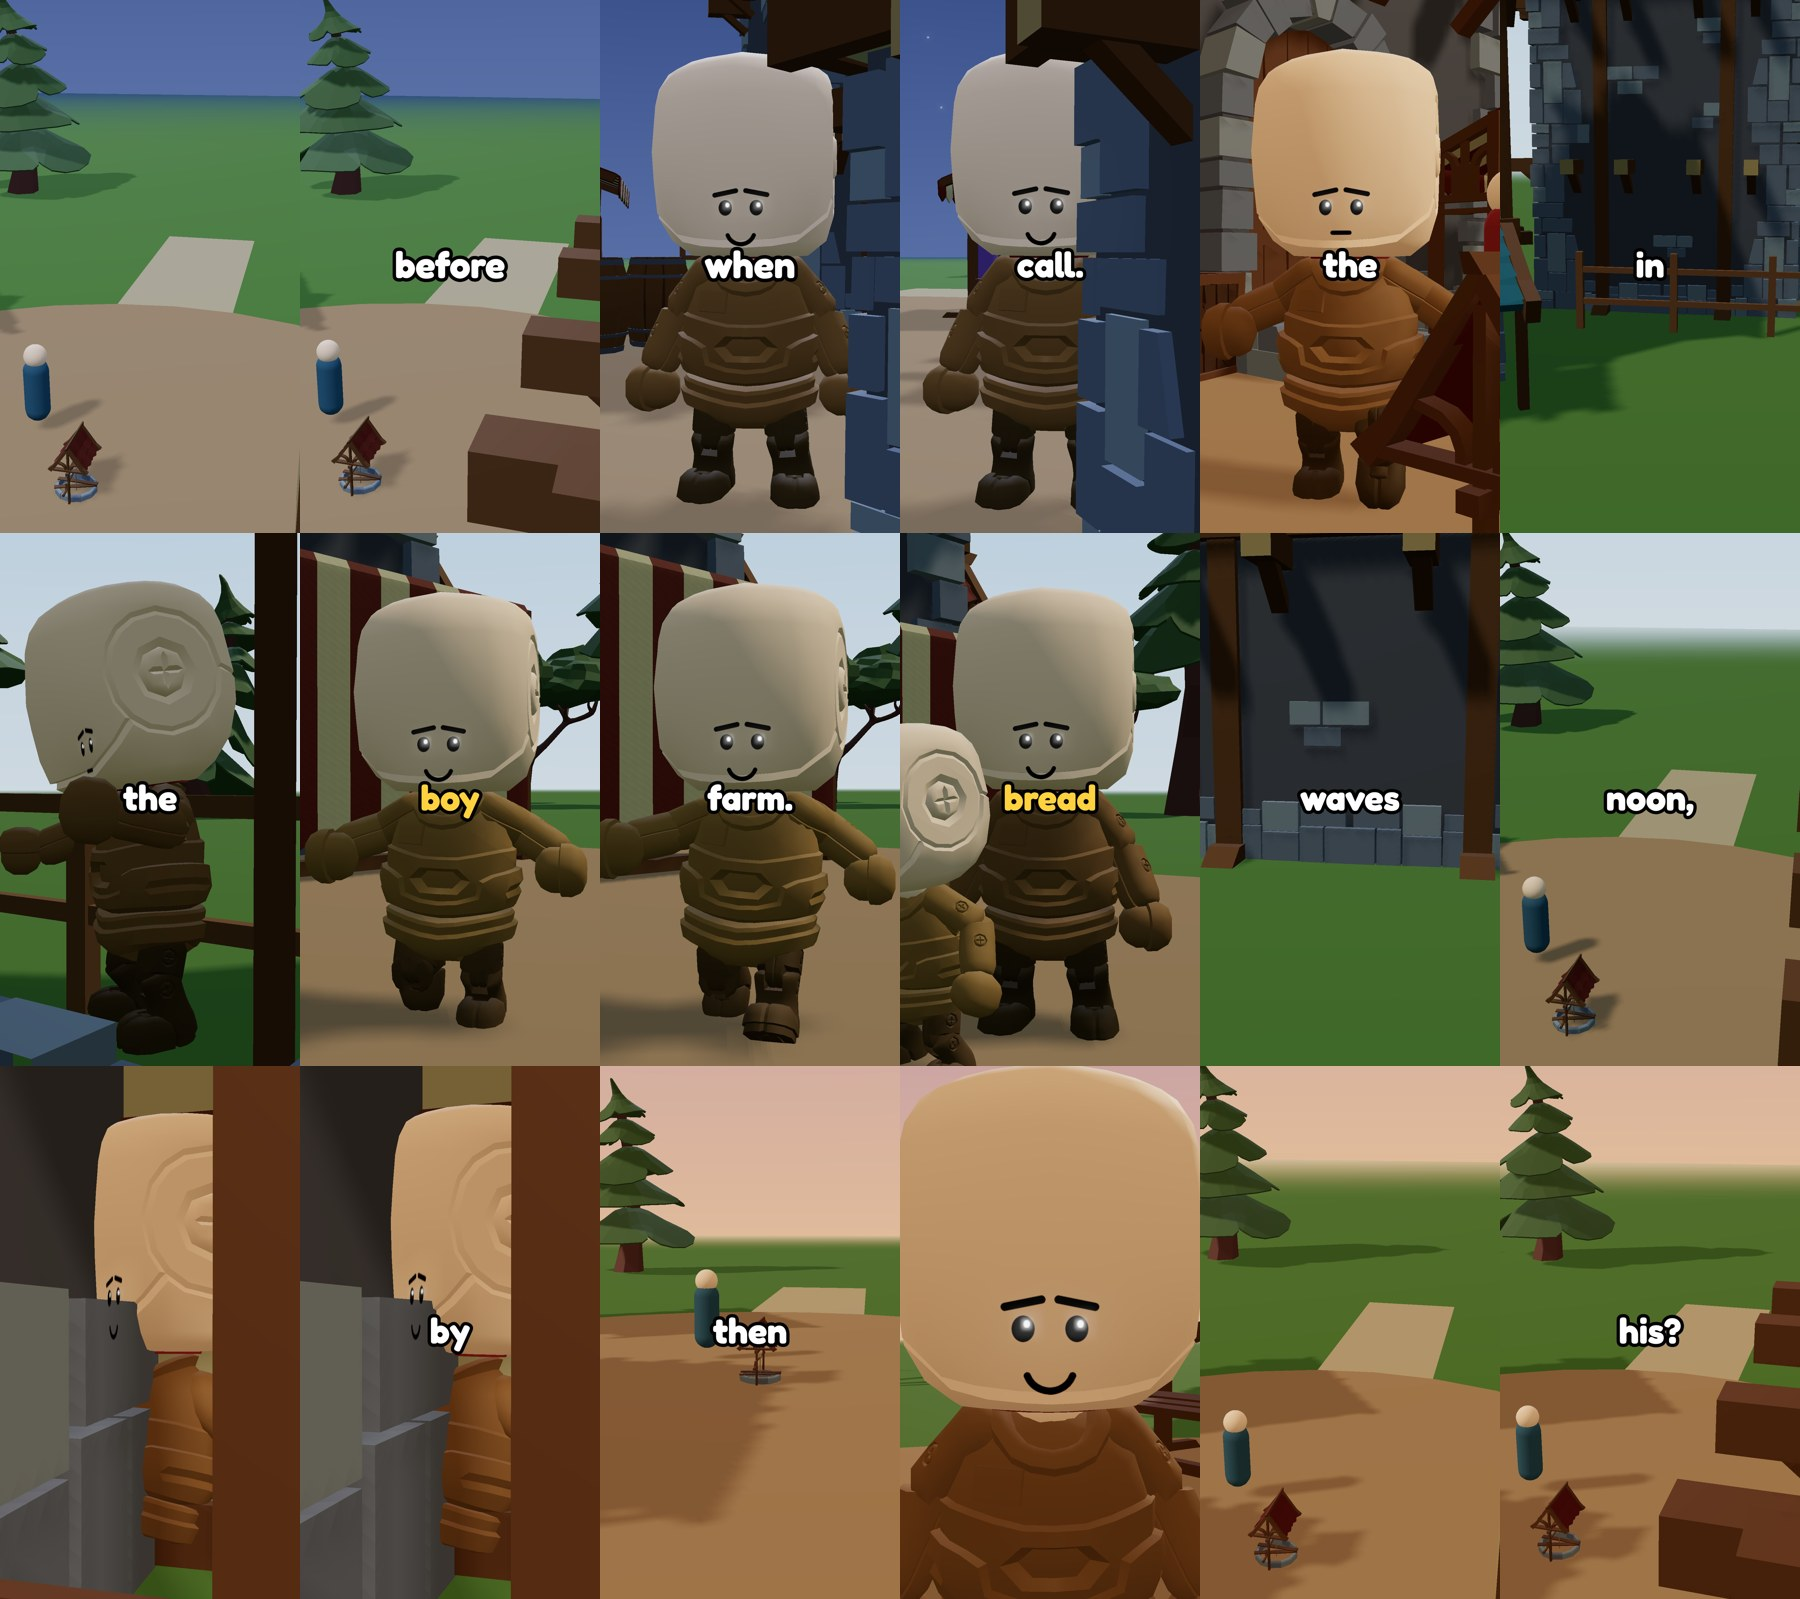
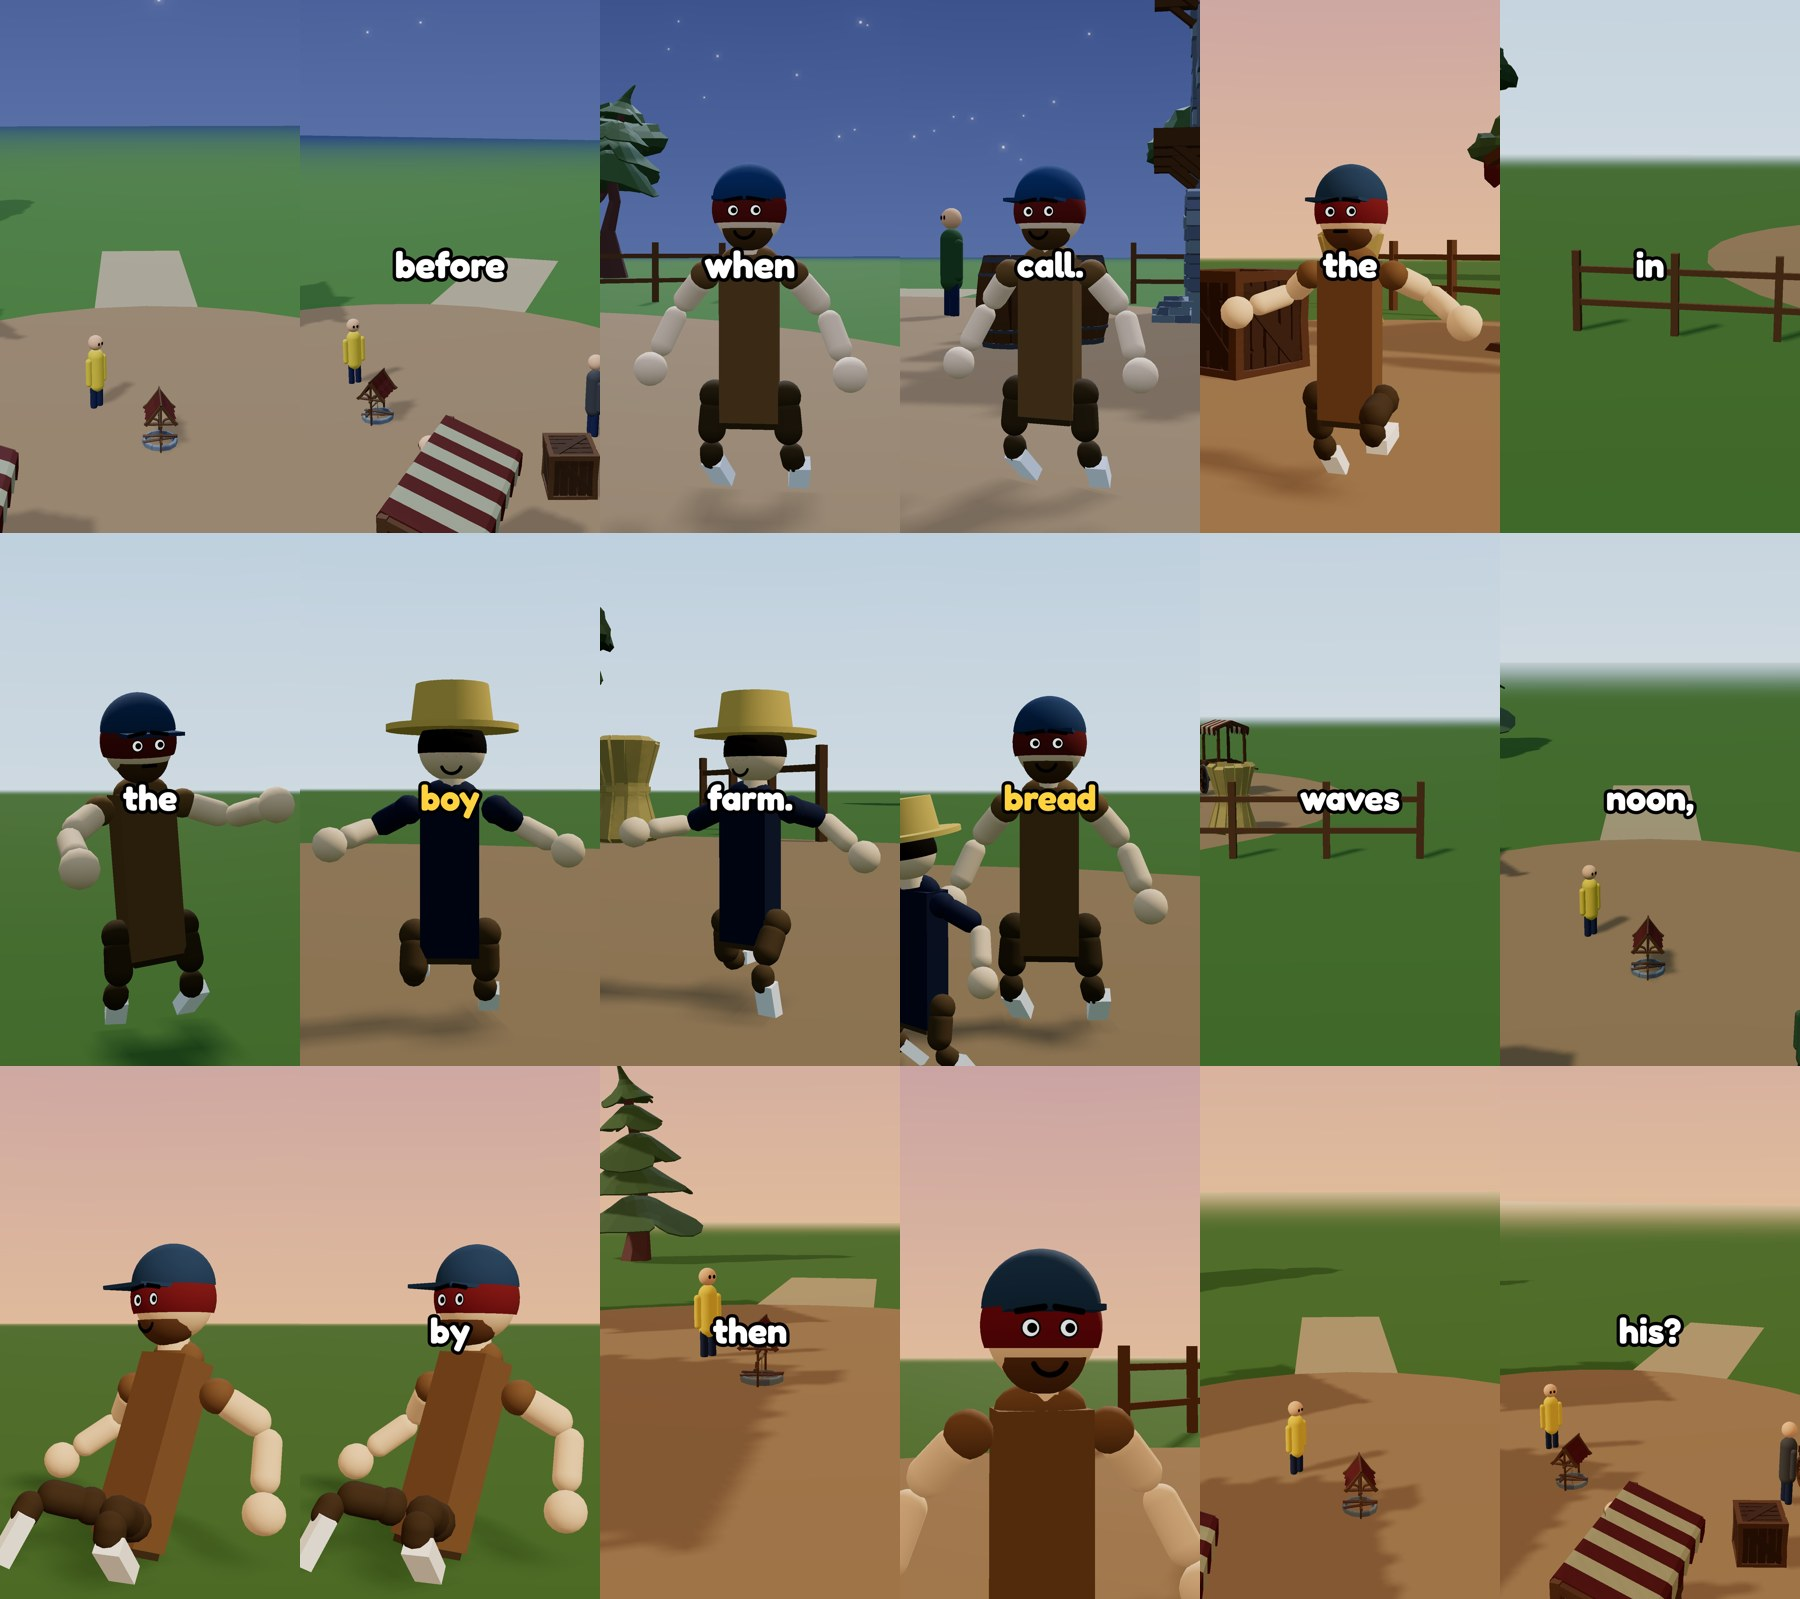
motor-3d r3: fiscal com 3 testes novos (quadro repetido<2%, obstaculo>25%, criatura>8%); engine esconde qualquer tronco/casa >19%% ou perto demais e ignora chao/rua na lista; travelling bem visivel em aberto/aereo; os 3 testes passam

diff --git a/motor-3d/engine.html b/motor-3d/engine.html
@@ -138,12 +138,19 @@ async function trocarPara(i) {
     cenarioAtual = await montarCenario(cena.cenario, scene, {});
     cenarioNome = cena.cenario;
     // obstaculos p/ o raycast da camera: filhos de topo do grupo do cenario (arvores, casas, torre...),
-    // menos o piso (plano grande no chao, que nunca bloqueia a cabeca).
+    // obstaculos = so o que pode TAPAR a cabeca (arvores, casas, torre). Exclui o chao e pecas baixas e planas
+    // (calcada, asfalto, caminho, praca, trilho): elas ficam no piso e nunca bloqueiam nem contam como "tronco".
     obstaculos = [];
     if (cenarioAtual.grupo) {
+      const cx = new THREE.Box3();
       for (const ch of cenarioAtual.grupo.children) {
         if (ch === cenarioAtual.piso) continue;
         if (ch.geometry && ch.geometry.type === 'PlaneGeometry') continue;
+        cx.setFromObject(ch);
+        if (cx.isEmpty()) continue;
+        const altY = cx.max.y - cx.min.y, base = cx.min.y;
+        // peça baixa (altura < 0.6 m) e colada no chao (base < 0.4 m): é piso/rua, nao obstaculo
+        if (altY < 0.6 && base < 0.4) continue;
         obstaculos.push(ch);
       }
     }
@@ -243,6 +250,39 @@ function virarParaCamera(alvo, maxGraus) {
   a.obj.rotation.y = baseY + d;
 }
 
+// fracao da tela (0..1) coberta pela caixa de um objeto, projetando os 8 cantos na camera.
+const _cantoV = new THREE.Vector3(); const _boxTmp = new THREE.Box3();
+function coberturaTela(obj) {
+  _boxTmp.setFromObject(obj);
+  if (_boxTmp.isEmpty()) return 0;
+  const mn = _boxTmp.min, mx = _boxTmp.max;
+  let minx = 2, miny = 2, maxx = -2, maxy = -2, algumFrente = false;
+  for (let i = 0; i < 8; i++) {
+    _cantoV.set(i & 1 ? mx.x : mn.x, i & 2 ? mx.y : mn.y, i & 4 ? mx.z : mn.z);
+    _cantoV.project(cam);
+    if (_cantoV.z < 1) algumFrente = true;
+    minx = Math.min(minx, _cantoV.x); maxx = Math.max(maxx, _cantoV.x);
+    miny = Math.min(miny, _cantoV.y); maxy = Math.max(maxy, _cantoV.y);
+  }
+  if (!algumFrente) return 0;
+  const w = Math.min(1, maxx) - Math.max(-1, minx); // NDC -1..1
+  const h = Math.min(1, maxy) - Math.max(-1, miny);
+  if (w <= 0 || h <= 0) return 0;
+  return (w / 2) * (h / 2); // fracao da tela
+}
+// obstaculo cuja caixa esta a menos de `dist` da camera na horizontal (perto demais => domina o quadro)
+function pertoDaCamera(obj, dist) {
+  _boxTmp.setFromObject(obj);
+  if (_boxTmp.isEmpty()) return false;
+  const cx = (_boxTmp.min.x + _boxTmp.max.x) / 2, cz = (_boxTmp.min.z + _boxTmp.max.z) / 2;
+  const dx = cx - cam.position.x, dz = cz - cam.position.z;
+  const d = Math.hypot(dx, dz) - Math.max(_boxTmp.max.x - cx, _boxTmp.max.z - cz) * 0.5;
+  // so conta se estiver na FRENTE da camera (produto escalar com a direcao da camera)
+  const fwd = new THREE.Vector3(); cam.getWorldDirection(fwd);
+  const naFrente = (dx * fwd.x + dz * fwd.z) > 0;
+  return naFrente && d < dist;
+}
+
 // posiciona a rim light atras do alvo em relacao a camera (contraluz): recorta a silhueta do fundo.
 function posicionarRim(alvo) {
   alvo.obj.getWorldPosition(_tmpVec);
@@ -302,7 +342,14 @@ window.render = function (t) {
 
   // TODOS os troncos/casas entre a camera e o alvo SOMEM neste quadro (regra r3: nao basta orbitar)
   const escondidos = (diag && diag.bloqueadores) || [];
+  // alem disso, esconde QUALQUER obstaculo que ocupe > 22% da tela OU esteja muito perto da camera (tronco/copa
+  // gigante de lado), proibido na r3. A proximidade pega os casos em que a caixa cruza o plano da camera.
+  for (const o of obstaculos) {
+    if (!o.visible || escondidos.includes(o)) continue;
+    if (coberturaTela(o) > 0.19 || pertoDaCamera(o, 4.5)) escondidos.push(o);
+  }
   for (const o of escondidos) o.visible = false;
+  window.__escondidosQuadro = escondidos; // o fiscal (obstaculo) respeita estes esconderijos
 
   // dados para o fiscal (conferir_quadros.py): plano, se o alvo e ator, e se segue bloqueado DEPOIS de esconder
   window.__ultimoQuadro = { plano: pa.plano, alvoEhAtor: !!(alvo && alvo.ehAtor), bloqueado: false, cena: ST._iAtual,
@@ -420,6 +467,29 @@ function desenharSilhueta(alvo) {
   for (const [o, m] of trocados) o.material = m;
 }
 window.__silhueta = (on) => { _silhueta = !!on; };
+
+// fiscal (b): maior fracao da tela ocupada por UM objeto de cenario (tronco/casa) que NAO e ator/criatura.
+// Pinta cada obstaculo de uma cor unica, renderiza sem bloom, e mede a maior contagem de uma cor.
+window.__obstaculoCobertura = () => {
+  const trocados = [];
+  scene.traverse(o => { if (o.isMesh && o.material) { trocados.push([o, o.material]); o.material = _matPreto; } });
+  // cada obstaculo de topo ganha uma cor unica; os que o quadro ESCONDEU continuam pretos (nao contam)
+  const escond = window.__escondidosQuadro || [];
+  const cores = [];
+  obstaculos.forEach((ob, i) => {
+    if (escond.includes(ob)) { cores.push(null); return; }
+    const cor = new THREE.Color().setHSL((i * 0.137) % 1, 1, 0.5);
+    cores.push(cor);
+    ob.traverse(o => { if (o.isMesh) o.material = new THREE.MeshBasicMaterial({ color: cor }); });
+  });
+  // esconde ator/criatura para nao contar
+  const alvo = _alvoAtual;
+  const bg = scene.background; scene.background = new THREE.Color(0x000000);
+  R.render(scene, cam);
+  scene.background = bg;
+  for (const [o, m] of trocados) o.material = m;
+  return cores.length; // o calculo da fracao e feito no Python lendo os pixels (cores distintas)
+};
 
 // diagnostico: posicao/alvo da camera e se a cena tem objetos visiveis
 window.__caminfo = () => ({

diff --git a/motor-3d/kit/camera.js b/motor-3d/kit/camera.js
@@ -90,10 +90,10 @@ function montar(plano, alvo, a, fov, orbitDeg = 0) {
       olha.set(base.x, base.y + alturaCorpo * 0.62, base.z);
       break;
     }
-    case 'aberto': { // ator ~25% + cenario; de frente, mais alto e afastado, orbit lateral visivel
-      const d = distParaEnquadrar(alturaCorpo, 0.25, fov) * (1 - dolly * 0.3);
-      pos.copy(centroCorpo).addScaledVector(fr, d).addScaledVector(lado, 1.6 + 1.2 * desliza);
-      pos.y = base.y + alturaCorpo * 0.9 + 0.8;
+    case 'aberto': { // ator ~25% + cenario; dolly e orbit lateral BEM visiveis ao longo do trecho
+      const d = distParaEnquadrar(alturaCorpo, 0.25, fov) * (1 - dolly * 0.6);
+      pos.copy(centroCorpo).addScaledVector(fr, d).addScaledVector(lado, 1.2 + 2.4 * desliza);
+      pos.y = base.y + alturaCorpo * 0.9 + 0.8 + 0.5 * desliza;
       olha.copy(centroCorpo); olha.y = base.y + alturaCorpo * 0.5;
       break;
     }
@@ -120,10 +120,11 @@ function montar(plano, alvo, a, fov, orbitDeg = 0) {
       olha.copy(cab).addScaledVector(fr, 4.0);
       break;
     }
-    case 'aereo': { // de cima mas inclinado p/ o HORIZONTE (ceu claro no fundo), vila/rua preenchendo o quadro
+    case 'aereo': { // de cima mas inclinado p/ o HORIZONTE; orbita visivelmente ao longo do trecho (nunca parada)
       const h = 5.0 + alturaCorpo * 0.7;
-      pos.set(base.x + 3 + a * 1.0, base.y + h, base.z + h * 1.2);
-      olha.set(base.x, base.y + 2.0, base.z - 6); // mira adiante e um pouco pra cima: pega o horizonte iluminado
+      const ang = desliza * 0.5; // gira a posicao em torno do alvo ao longo do trecho
+      pos.set(base.x + Math.sin(ang) * (5 + h * 0.4) + 3, base.y + h, base.z + Math.cos(ang) * (5 + h * 0.4) + h * 0.6);
+      olha.set(base.x, base.y + 2.0, base.z - 6);
       break;
     }
     default: {

diff --git a/motor-3d/testes/conferir_quadros.py b/motor-3d/testes/conferir_quadros.py
@@ -2,7 +2,10 @@
 """Fiscal automatico dos quadros 3D: renderiza 1 quadro a cada 2,5 s de um roteiro e REPROVA se:
   (a) brilho medio do quadro < 45 (numa escala 0-255) -> cena escura demais;
   (b) o ator-alvo ocupa menos de 3% da tela nos planos close/medio/baixo (mede numa passada de silhueta magenta);
-  (c) algum objeto bloqueia o raycast camera->cabeca do alvo.
+  (c) algum objeto bloqueia o raycast camera->cabeca do alvo;
+  (d) dois quadros seguidos com diferenca media < 2% (camera parada entre cortes);
+  (e) um objeto de cenario (tronco/casa) ocupando > 25% da tela;
+  (f) em plano de criatura (baixo/aberto), a silhueta da criatura ocupa < 8% da tela.
 Escreve um relatorio (stdout + <base>_relatorio.txt) e uma folha de contato <base>_folha.jpg (6x3 quadros).
 
 Uso: python conferir_quadros.py SV-3d-exemplo.json SV-3d-tempos.json [saida/SV-3d]
@@ -22,6 +25,10 @@ PASSO = 2.5          # 1 quadro a cada 2,5 s
 BRILHO_MIN = 45      # media de brilho minima
 AREA_MIN = 0.03      # 3% da tela nos planos close/medio/baixo
 PLANOS_ATOR = {"close", "medio", "baixo"}
+DIF_MIN = 0.02       # (a) 2 quadros seguidos com diferenca media < 2% reprovam (camera parada entre cortes)
+OBST_MAX = 0.25      # (b) 1 objeto de cenario (tronco/casa) ocupando > 25% da tela reprova
+CRIAT_MIN = 0.08     # (c) em plano de criatura, a silhueta da criatura tem que ocupar > 8%
+PLANOS_CRIATURA = {"baixo", "aberto"}
 
 
 class _H(http.server.SimpleHTTPRequestHandler):
@@ -53,6 +60,7 @@ def conferir(historia, tempos, base_saida):
 
     GRAB = "t => { render(t); return document.getElementById('c').toDataURL('image/jpeg',0.9).split(',')[1]; }"
     quadros, linhas, falhas = [], [], []
+    arr_ant = None
     with sync_playwright() as pw:
         b = pw.chromium.launch()
         pg = b.new_page(viewport={"width": 1080, "height": 1920})
@@ -75,10 +83,23 @@ def conferir(historia, tempos, base_saida):
             sil = np.asarray(Image.open(io.BytesIO(base64.b64decode(sil_b64))).convert("RGB"), dtype=np.int16)
             magenta = (sil[:, :, 0] > 150) & (sil[:, :, 1] < 90) & (sil[:, :, 2] > 150)
             area = float(magenta.mean())
+            # 3) passada de obstaculos: cada tronco/casa com cor unica; mede a maior fracao de uma so cor
+            pg.evaluate("() => window.__obstaculoCobertura()")
+            obs_b64 = pg.evaluate("() => window.__cru(0.92)")
+            obs = np.asarray(Image.open(io.BytesIO(base64.b64decode(obs_b64))).convert("RGB"), dtype=np.uint8)
+            nao_preto = obs.max(axis=2) > 40
+            maior_obst = 0.0
+            if nao_preto.any():
+                # quantiza as cores e conta a mais frequente (= maior objeto na tela)
+                q = (obs[nao_preto] // 32).astype(np.int32)
+                chaves = q[:, 0] * 64 + q[:, 1] * 8 + q[:, 2]
+                _, cont = np.unique(chaves, return_counts=True)
+                maior_obst = float(cont.max()) / (obs.shape[0] * obs.shape[1])
 
             plano = (info or {}).get("plano", "?")
             ehator = (info or {}).get("alvoEhAtor", False)
             bloq = (info or {}).get("bloqueado", False)
+            tem_criatura = (info or {}).get("temCriatura", False)
             prob = []
             if brilho < BRILHO_MIN:
                 prob.append(f"escuro({brilho:.0f})")
@@ -86,10 +107,22 @@ def conferir(historia, tempos, base_saida):
                 prob.append(f"ator {area*100:.1f}%<3% [{plano}]")
             if bloq:
                 prob.append("bloqueado")
+            # (b) objeto de cenario grande demais
+            if maior_obst > OBST_MAX:
+                prob.append(f"obstaculo {maior_obst*100:.0f}%>25%")
+            # (c) plano de criatura: a criatura (alvo, nao-ator) tem que ocupar > 8%
+            if tem_criatura and not ehator and plano in PLANOS_CRIATURA and area < CRIAT_MIN:
+                prob.append(f"criatura {area*100:.1f}%<8% [{plano}]")
+            # (a) quadro quase igual ao anterior
+            if arr_ant is not None:
+                dif = float(np.abs(arr - arr_ant).mean()) / 255.0
+                if dif < DIF_MIN:
+                    prob.append(f"parado(dif {dif*100:.1f}%<2%)")
+            arr_ant = arr
             if prob:
                 falhas.append(f"t={t:5.1f}s {plano}: " + ", ".join(prob))
-            linhas.append(f"t={t:5.1f}s plano={plano:7s} brilho={brilho:5.1f} ator={area*100:4.1f}% "
-                          f"{'OK' if not prob else 'FALHA: ' + ', '.join(prob)}")
+            linhas.append(f"t={t:5.1f}s plano={plano:7s} brilho={brilho:5.1f} alvo={area*100:4.1f}% "
+                          f"obst={maior_obst*100:4.0f}% {'OK' if not prob else 'FALHA: ' + ', '.join(prob)}")
             quadros.append(im)
         b.close()
     srv.shutdown()
